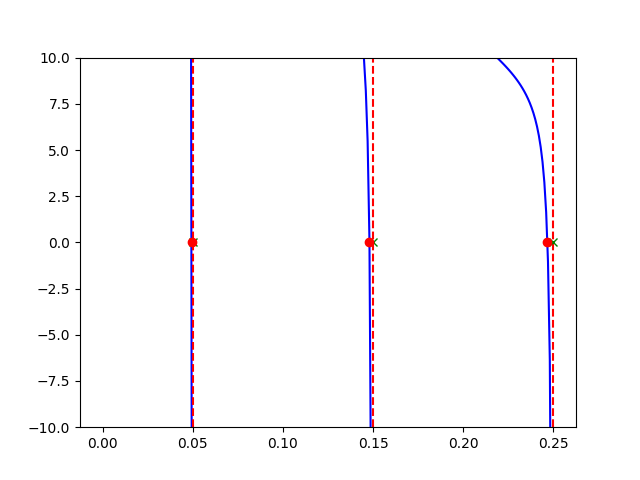
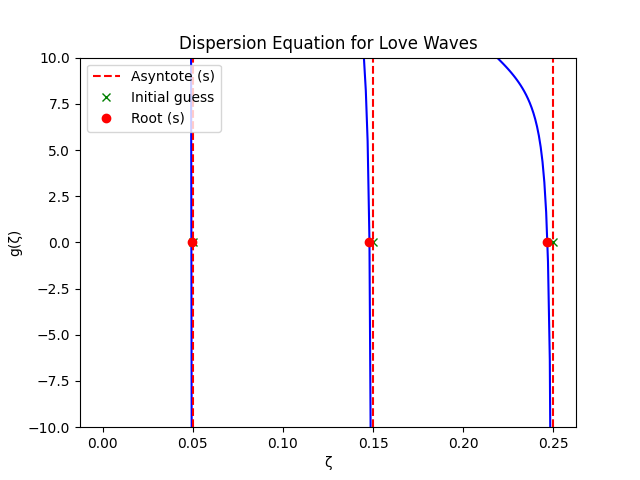
Adding legend to the plots

Changed region(s): [[0.1562, 0.0625, 0.75, 0.2812], [0.0, 0.4688, 0.0312, 0.5312]]

diff --git a/examples/dispersion_equation.py b/examples/dispersion_equation.py
@@ -76,7 +76,7 @@ for i, f in enumerate(frequencies):
             
             zplt = np.linspace(za_mode0 + 1e-6, za_mode - 1e-6, 100) # Create a range of values around the asymptotic value
             plt.plot(zplt, intersection(zplt), color='b')
-            plt.axvline(x=za_mode, color='r', linestyle='--') # Plot the asymptotic values
+            plt.axvline(x=za_mode, color='r', linestyle='--', label = 'Asyntote (s)' if mode == 0 else "_nolabel_") # Plot the asymptotic values
             
             za_mode0 = za_mode
                                     
@@ -94,8 +94,9 @@ for i, f in enumerate(frequencies):
         root = root_secant_modified(z0, 1e-7, intersection)[0]
         roots_for_frequency.append(root) # Store the root for the current mode
          
-        plt.plot (z0, 0, 'xg')
-        plt.plot (root, intersection(root),'ro') 
+        
+        plt.plot (z0, 0, 'xg', label= 'Initial guess' if mode == 0 else "_nolabel_")
+        plt.plot (root, intersection(root),'ro', label= 'Root (s)' if mode == 0 else "_nolabel_") 
                                  
         #print(f'Initial guess (z0) for mode {mode} and frequency {f} Hz is {z0}')
         #print(f'Root for mode {mode} and frequency {f} Hz is {root}')
@@ -108,6 +109,10 @@ for i, f in enumerate(frequencies):
     roots_storage.append(roots_for_frequency) # Store the roots for the current frequency5
     plt.ylim (-10, 10)
     #plt.xlim(0, zmax)
+    plt.title('Dispersion Equation for Love Waves')
+    plt.xlabel('\u03B6')
+    plt.ylabel('g(\u03B6)')
+    plt.legend()  
     plt.savefig (f'figures/roots_frequencies_{f}.png')
     
     
